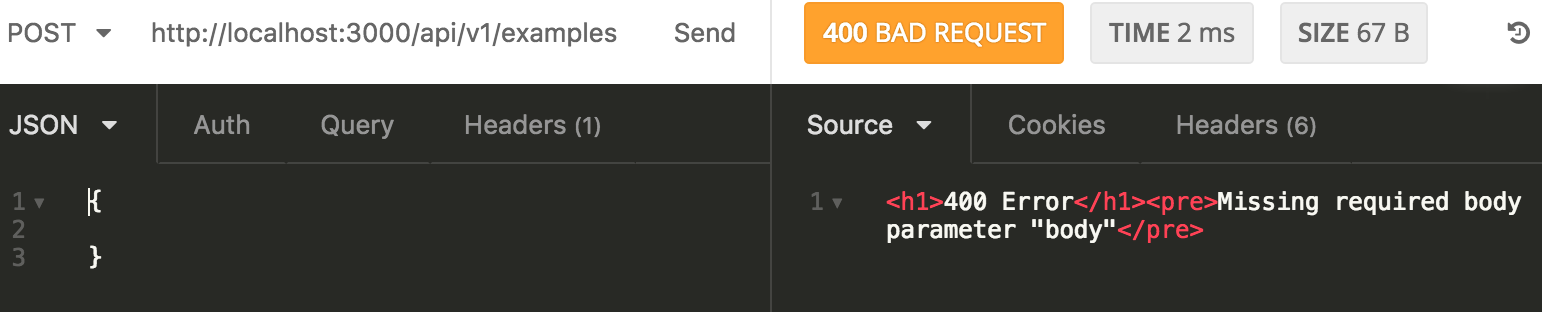
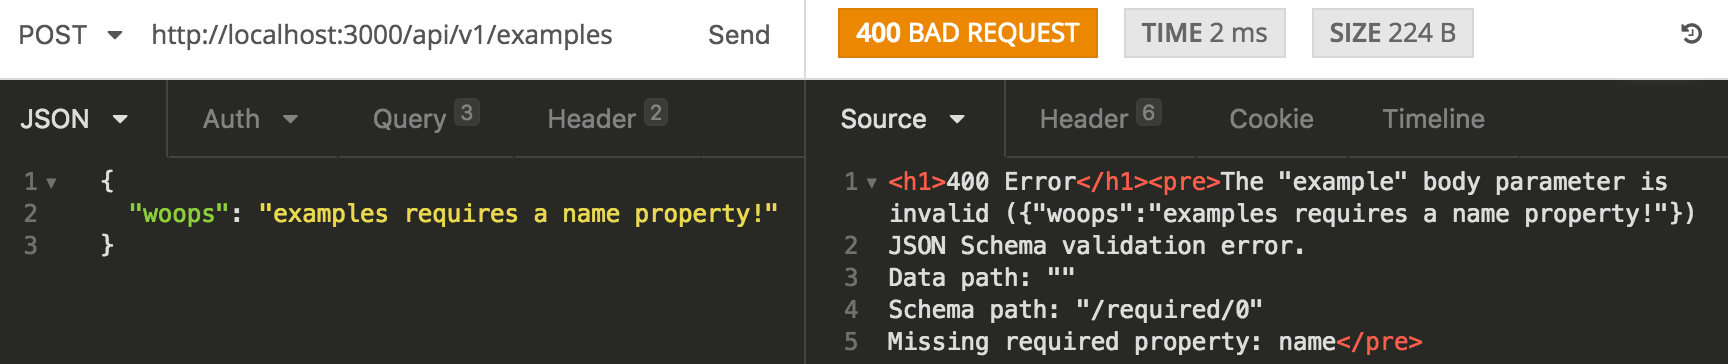
update readme and assets

diff --git a/README.md b/README.md
@@ -112,13 +112,15 @@ Simply describe your APIs with Swagger and automatically get:
 ```json
 swagger: "2.0"
 info:
-  version: "1.0.0"
-  title: My App
-  description: My App is Cool
+  version: 1.0.0
+  title: myapp
+  description: My cool app
 basePath: /api/v1
 tags:
   - name: Examples
     description: Simple example endpoints
+  - name: Specification
+    description: The swagger API specification
 
 consumes:
   - application/json
@@ -150,14 +152,14 @@ paths:
         - Examples
       description: Create a new example
       parameters:
-        - name: body
+        - name: example
           in: body
           description: number of items to skip
           required: true
           schema: 
             $ref: "#/definitions/ExampleBody"
       responses:
-        201:
+        200:
           description: Returns all examples
 
   /examples/{id}:
@@ -176,6 +178,13 @@ paths:
         404:
           description: Example not 
 
+  /spec:
+    get:
+      tags:
+        - Specification
+      responses:
+        200:
+          description: Return the API specification
 ```
 
 #### Invoke a POST request via the Interactive doc
